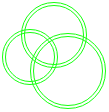
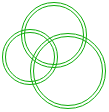
Correct colours for the countries

Changed region(s): [[0.0, 0.0, 0.9908, 0.9911]]

diff --git a/LogoDemo.css b/LogoDemo.css
@@ -37,19 +37,23 @@ h1:before{
 }
 
 .London{
-    stroke: #ff1627;
+    stroke: #f9fbff;
+}
+
+.London #circle1Outer, .London #circle1inner{
+    stroke: #1d33c4;
 }
 
 .Cardiff {
-    stroke: #1622ff;
+    stroke: #ff2415;
 }
 
 .Belfast{
-    stroke: #15ff0f;
+    stroke: #0eab0a;
 }
 
 .Edinburgh {
-    stroke: #fff60e;
+    stroke: #1d33c4;
 
 }
 
